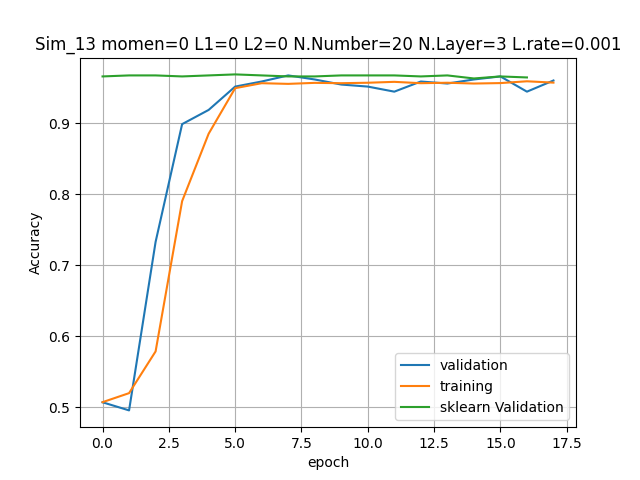
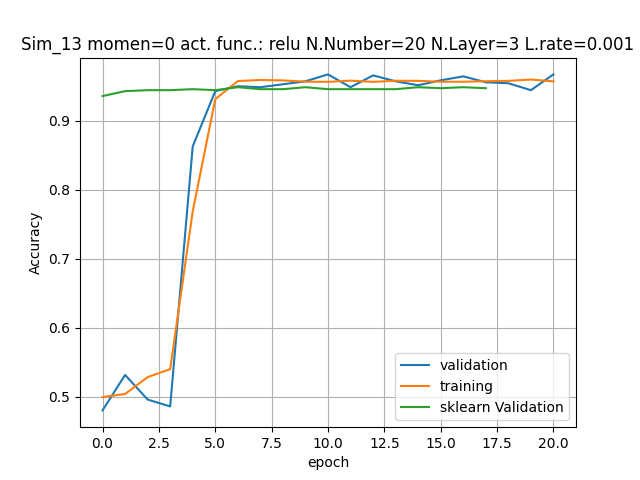
metrics fixed

diff --git a/gridSearch.py b/gridSearch.py
@@ -31,10 +31,10 @@ for index,simulation in enumerate(list(ParameterGrid(hyperparameters))):
     print(sklearn_model.validation_scores_)
     print(f'Sklearn mlp used {sklearn_time} of time')
 
-    acc_sklearn = accuracy_score(y_predicted_sklearn,y_test)
-    recall_sklearn = recall_score(y_predicted_sklearn,y_test)
-    precision_sklearn = precision_score(y_predicted_sklearn,y_test)
-    f1_sklearn = f1_score(y_predicted_sklearn,y_test)
+    acc_sklearn = accuracy_score(y_test,y_predicted_sklearn)
+    recall_sklearn = recall_score(y_test,y_predicted_sklearn)
+    precision_sklearn = precision_score(y_test,y_predicted_sklearn)
+    f1_sklearn = f1_score(y_test,y_predicted_sklearn)
 
     print('Acc:'+str(round(acc_sklearn ,4)))
     print('Recall: '+str(round(recall_sklearn,4)))
@@ -54,10 +54,10 @@ for index,simulation in enumerate(list(ParameterGrid(hyperparameters))):
 
     my_mlp_time = time.time() - start
 
-    acc = round(accuracy_score(y_predicted,y_test),4)
-    recall = round(recall_score(y_predicted,y_test),4)
-    precision = round(precision_score(y_predicted,y_test),4)
-    f1 = round(f1_score(y_predicted,y_test),4)
+    acc = round(accuracy_score(y_test,y_predicted),4)
+    recall = round(recall_score(y_test,y_predicted),4)
+    precision = round(precision_score(y_test,y_predicted),4)
+    f1 = round(f1_score(y_test,y_predicted),4)
 
     print('Acc:'+str(acc))
     print('Recall: '+str(recall))
@@ -89,7 +89,7 @@ for index,simulation in enumerate(list(ParameterGrid(hyperparameters))):
         'index':index
     }
 
-    plt.title('Sim_'+str(index)+' momen='+str(simulation['momentum'])+' L1='+str(simulation['regularization_l1'])+' L2='+str(simulation['regularization_l2'])+' N.Number='+str(simulation['neuronNumber'])+' N.Layer='+str(simulation['layerNumber'])+' L.rate='+str(simulation['learningRate']))
+    plt.title('Sim_'+str(index)+' momen='+str(simulation['momentum'])+' act. func.: '+str(simulation['activeFunction'])+' N.Number='+str(simulation['neuronNumber'])+' N.Layer='+str(simulation['layerNumber'])+' L.rate='+str(simulation['learningRate']))
     plt.plot(history['validation_acc'],label='validation')
     plt.plot(history['training_acc'],label='training')
     plt.plot(sklearn_model.validation_scores_,label='sklearn Validation')
